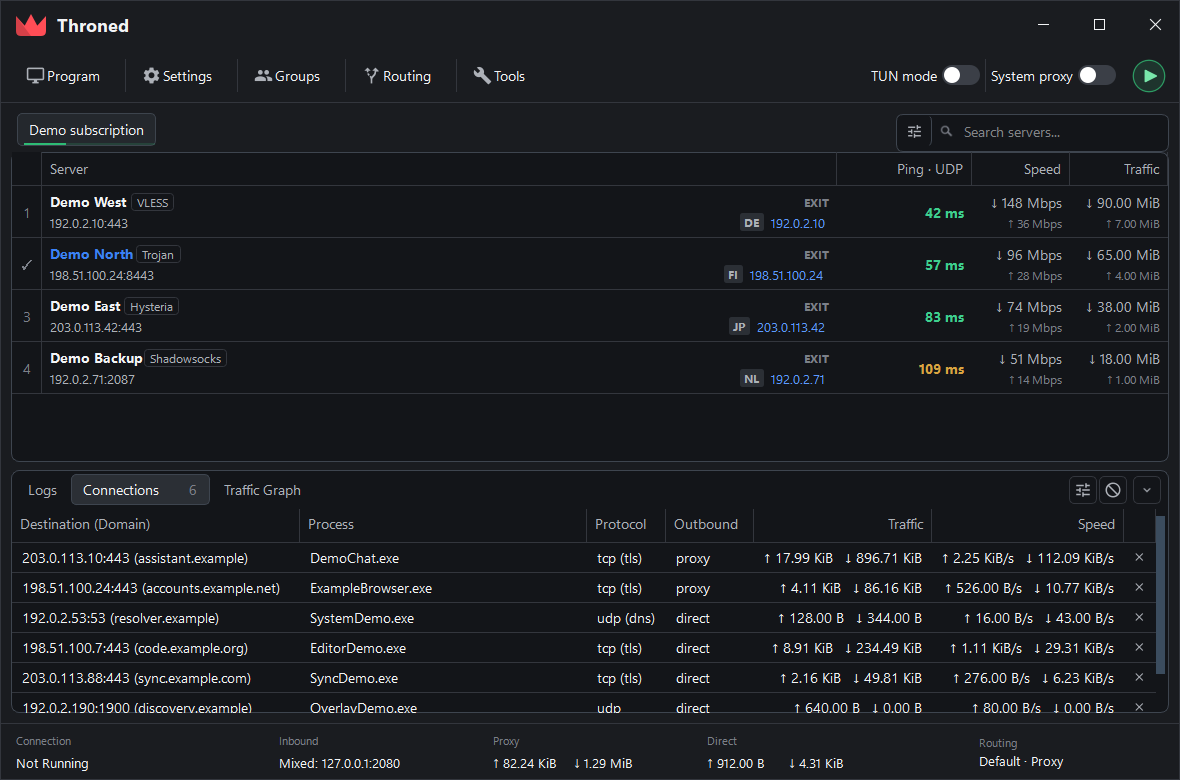
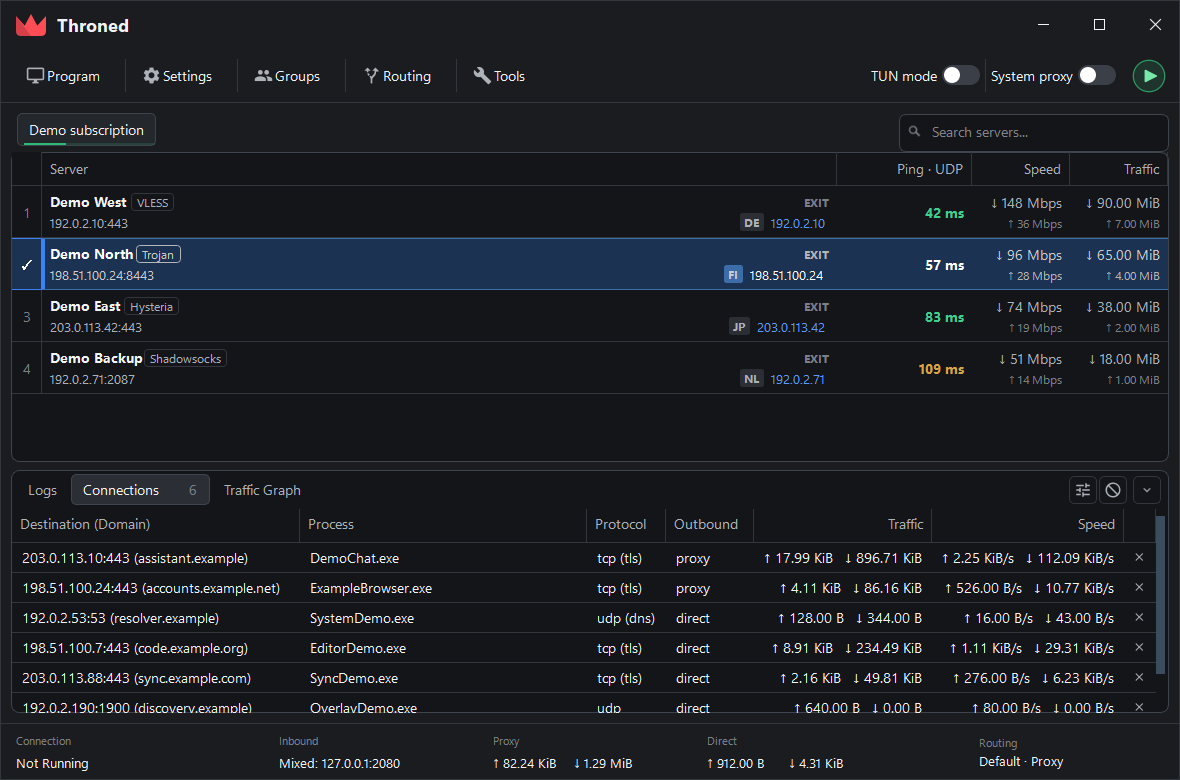
feat: drop the column filter and jump to the running profile from the status bar

Changed region(s): [[0.0, 0.3077, 1.0, 0.3692], [0.7627, 0.1538, 0.8847, 0.1846]]

diff --git a/src/ui/mainWindow/mainwindow_setup.cpp b/src/ui/mainWindow/mainwindow_setup.cpp
@@ -6,6 +6,7 @@
 
 #include <QActionGroup>
 #include <QMenu>
+#include <QShortcut>
 #include <QAction>
 #include <QSignalBlocker>
 #include <QStyle>
@@ -775,12 +776,6 @@ QPushButton#logToolButton {
     background: #222529; border: 1px solid #2F3136; border-radius: 5px; padding: 6px 10px;
 }
 QPushButton#logToolButton:hover { background: #292D33; border-color: #4A4F57; }
-QToolButton#tableFilterButton {
-    background: transparent; border: none; border-right: 1px solid #3E454F;
-    border-radius: 6px;
-}
-QToolButton#tableFilterButton:hover { background: #292D33; }
-QToolButton#tableFilterButton:checked { background: #182B38; }
 QLineEdit#serverSearch {
     background: transparent; border: none; border-radius: 6px;
     padding: 6px 9px 6px 4px;
@@ -1053,19 +1048,19 @@ QScrollBar::add-page:vertical, QScrollBar::sub-page:vertical { background: trans
         on_tabWidget_currentChanged(ui->tabWidget->tabBar()->currentIndex());
     });
     ui->label_running->installEventFilter(this);
+    ui->label_running->setCursor(Qt::PointingHandCursor);
+    // Left click now jumps to the row, so the test this label used to trigger
+    // moves here rather than disappearing.
+    ui->label_running->setContextMenuPolicy(Qt::CustomContextMenu);
+    connect(ui->label_running, &QWidget::customContextMenuRequested, this, [this](const QPoint &pos) {
+        if (running == nullptr) return;
+        QMenu menu(this);
+        menu.addAction(tr("Test this connection"), this, &MainWindow::url_test_current);
+        menu.exec(ui->label_running->mapToGlobal(pos));
+    });
     ui->label_inbound->installEventFilter(this);
     ui->splitter->installEventFilter(this);
     ui->tabWidget->installEventFilter(this);
-    auto btnFilter = new QToolButton(this);
-    btnFilter->setObjectName(QStringLiteral("tableFilterButton"));
-    btnFilter->setToolTip(QString("%1\n%2").arg(tr("Enable Filter"), QKeySequence(QKeySequence::Find).toString(QKeySequence::NativeText)));
-    btnFilter->setShortcut(QKeySequence::Find);
-    btnFilter->setCheckable(true);
-    btnFilter->setIconSize(QSize(17, 17));
-    btnFilter->setFixedSize(32, 32);
-    connect(btnFilter, &QToolButton::toggled, static_cast<ProfilesTableFilterHeader*>(ui->profilesTableView->horizontalHeader()), &ProfilesTableFilterHeader::setFiltersVisible);
-    connect(static_cast<ProfilesTableFilterHeader*>(ui->profilesTableView->horizontalHeader()), &ProfilesTableFilterHeader::closeRequested,
-            btnFilter, [btnFilter] { btnFilter->setChecked(false); });
     auto *tableTools = new QFrame(ui->tabWidget);
     tableTools->setObjectName(QStringLiteral("tableTools"));
     auto *tableToolsLayout = new QHBoxLayout(tableTools);
@@ -1073,13 +1068,18 @@ QScrollBar::add-page:vertical, QScrollBar::sub-page:vertical { background: trans
     tableToolsLayout->setContentsMargins(0, 0, 0, 7);
     tableToolsLayout->setSpacing(0);
     tableTools->setSizePolicy(QSizePolicy::Fixed, QSizePolicy::Fixed);
-    btnFilter->setFixedSize(35, 32);
-    tableToolsLayout->addWidget(btnFilter);
     auto *serverSearch = new QLineEdit(tableTools);
     serverSearch->setObjectName(QStringLiteral("serverSearch"));
     serverSearch->setPlaceholderText(tr("Search servers..."));
     serverSearch->setClearButtonEnabled(true);
-    serverSearch->setFixedSize(236, 32);
+    serverSearch->setFixedSize(268, 32);
+    // The per-column filter row is gone: this field already searches every one of
+    // them, so Find belongs here rather than on a second control beside it.
+    auto *findShortcut = new QShortcut(QKeySequence::Find, this);
+    connect(findShortcut, &QShortcut::activated, serverSearch, [serverSearch] {
+        serverSearch->setFocus(Qt::ShortcutFocusReason);
+        serverSearch->selectAll();
+    });
     auto *searchAction = serverSearch->addAction(QIcon(), QLineEdit::LeadingPosition);
     tableToolsLayout->addWidget(serverSearch);
     connect(serverSearch, &QLineEdit::textChanged, this, [this](const QString &text) {
@@ -1087,10 +1087,8 @@ QScrollBar::add-page:vertical, QScrollBar::sub-page:vertical { background: trans
         if (m_filterRefreshDebounce) m_filterRefreshDebounce->start();
     });
     ui->tabWidget->setCornerWidget(tableTools, Qt::TopRightCorner);
-    const auto retintTableTools = [btnFilter, searchAction] {
+    const auto retintTableTools = [searchAction] {
         const auto colors = themeManager->Colors();
-        btnFilter->setIcon(MaterialIcon::icon(MaterialIcon::Glyph::Tune,
-                                              btnFilter->isChecked() ? colors.accent : colors.textMuted, 17));
         // Qt centres a line-edit action on the frame, which puts the glyph above
         // the text's optical centre. Drawing it one pixel down inside a slightly
         // larger square lands it on the same line as the placeholder.
@@ -1102,7 +1100,6 @@ QScrollBar::add-page:vertical, QScrollBar::sub-page:vertical { background: trans
         searchAction->setIcon(QIcon(glyph));
     };
     retintTableTools();
-    connect(btnFilter, &QToolButton::toggled, this, retintTableTools);
     connect(themeManager, &ThemeManager::themeChanged, this, retintTableTools);
     //
     RegisterHotkey(false);

diff --git a/src/main.cpp b/src/main.cpp
@@ -846,14 +846,13 @@ briefly interrupts traffic.
     void VerifyProfileFiltersThenCapture(MainWindow *window, const QString &prefix) {
         auto *table = window->findChild<QTableView *>(QStringLiteral("profilesTableView"));
         auto *search = window->findChild<QLineEdit *>(QStringLiteral("serverSearch"));
-        auto *filterButton = window->findChild<QToolButton *>(QStringLiteral("tableFilterButton"));
-        if (table == nullptr || table->model() == nullptr || search == nullptr || filterButton == nullptr) {
+        if (table == nullptr || table->model() == nullptr || search == nullptr) {
             qApp->exit(2);
             return;
         }
         const int unfilteredRows = table->model()->rowCount();
         search->setText(QStringLiteral("Demo North"));
-        QTimer::singleShot(140, window, [window, prefix, table, search, filterButton, unfilteredRows] {
+        QTimer::singleShot(140, window, [window, prefix, table, search, unfilteredRows] {
             if (table->model()->rowCount() != 1) {
                 qWarning() << "Global profile search preview check failed" << table->model()->rowCount();
                 qApp->exit(2);
@@ -861,44 +860,12 @@ briefly interrupts traffic.
             }
             window->grab().save(prefix + QStringLiteral("-search-filtered.png"), "PNG");
             search->clear();
-            QTimer::singleShot(120, window, [window, prefix, table, filterButton, unfilteredRows] {
+            QTimer::singleShot(120, window, [window, prefix, table, unfilteredRows] {
                 if (table->model()->rowCount() != unfilteredRows) {
                     qApp->exit(2);
                     return;
                 }
-                filterButton->setChecked(true);
-                QTimer::singleShot(80, window, [window, prefix, table, filterButton, unfilteredRows] {
-                    QLineEdit *columnFilter = nullptr;
-                    for (auto *edit : table->horizontalHeader()->findChildren<QLineEdit *>())
-                        if (edit->isVisible()) {
-                            columnFilter = edit;
-                            break;
-                        }
-                    if (columnFilter == nullptr) {
-                        qApp->exit(2);
-                        return;
-                    }
-                    columnFilter->setText(QStringLiteral("Demo East"));
-                    QTimer::singleShot(140, window,
-                        [window, prefix, table, filterButton, columnFilter, unfilteredRows] {
-                        if (table->model()->rowCount() != 1) {
-                            qWarning() << "Column profile filter preview check failed"
-                                       << table->model()->rowCount();
-                            qApp->exit(2);
-                            return;
-                        }
-                        window->grab().save(prefix + QStringLiteral("-column-filtered.png"), "PNG");
-                        columnFilter->clear();
-                        filterButton->setChecked(false);
-                        QTimer::singleShot(120, window, [window, prefix, table, unfilteredRows] {
-                            if (table->model()->rowCount() != unfilteredRows) {
-                                qApp->exit(2);
-                                return;
-                            }
-                            BeginMainWindowCapture(window, prefix);
-                        });
-                    });
-                });
+                BeginMainWindowCapture(window, prefix);
             });
         });
     }

diff --git a/src/ui/mainWindow/mainwindow_view.cpp b/src/ui/mainWindow/mainwindow_view.cpp
@@ -6,6 +6,8 @@
 #include <QFrame>
 #include <QSignalBlocker>
 #include <QHeaderView>
+#include <QAbstractItemView>
+#include <QLineEdit>
 #include <QScrollBar>
 #include <QTimer>
 #include <QActionGroup>
@@ -25,10 +27,12 @@
 #include "include/ui/setting/Icon.hpp"
 #include "include/ui/setting/ThemeManager.hpp"
 #include "include/ui/widget/MaterialIcon.h"
+#include "include/ui/mainWindow/MainWindowInternal.h"
 #include "include/ui/stats/dialog_auto_selector.h"
 #include <QStyledItemDelegate>
 
 #include "include/ui/utils/ProfileRowDelegate.h"
+#include "include/ui/utils/ProfilesFilterProxyModel.h"
 #include "include/ui/utils/ProfilesTableFilterHeader.h"
 #include "include/ui/utils/ProfilesTableModel.h"
 #include "include/ui/widget/StartStopButton.hpp"
@@ -458,6 +462,67 @@ QString MainWindow::liveVpnConnectOkText() {
     bool connected = false;
     const auto text = liveVpnStateText(&connected);
     return connected ? text : QString();
+}
+
+void MainWindow::revealRunningProfile() {
+    const int id = Configs::dataManager->settingsRepo->started_id;
+    if (id < 0 || profilesTableModel == nullptr || profilesFilterModel == nullptr) return;
+    const auto profile = Configs::dataManager->profilesRepo->GetProfile(id);
+    if (profile == nullptr) return;
+
+    // It may be running out of a group the table is not showing.
+    if (profile->gid != Configs::dataManager->settingsRepo->current_group) {
+        const int tab = groupId2TabIndex(profile->gid);
+        if (tab < 0) return;
+        ui->tabWidget->setCurrentIndex(tab);
+    }
+    // ...and a search may be hiding it, in which case scrolling to nothing reads
+    // as the click having missed.
+    if (profilesFilterModel->toProxyRow(profilesTableModel->indexOfProfile(id)) < 0) {
+        if (auto *search = findChild<QLineEdit *>(QStringLiteral("serverSearch"))) search->clear();
+        globalFilterString.clear();
+        applyProfileFilters();
+    }
+
+    const int sourceRow = profilesTableModel->indexOfProfile(id);
+    if (sourceRow < 0) return;
+    const int proxyRow = profilesFilterModel->toProxyRow(sourceRow);
+    if (proxyRow < 0) return;
+
+    auto *view = ui->profilesTableView;
+    const QModelIndex target = profilesFilterModel->index(proxyRow, ProfilesTableModel::ColcServer);
+    view->setCurrentIndex(target);
+    view->selectRow(proxyRow);
+    view->scrollTo(target, QAbstractItemView::PositionAtCenter);
+    view->setFocus();
+    flashProfileRow(proxyRow);
+}
+
+void MainWindow::flashProfileRow(int proxyRow) {
+    if (profileRowDelegate == nullptr) return;
+    if (rowFlashAnimation != nullptr) {
+        rowFlashAnimation->stop();
+        rowFlashAnimation->deleteLater();
+        rowFlashAnimation = nullptr;
+    }
+    auto *animation = new QVariantAnimation(this);
+    rowFlashAnimation = animation;
+    animation->setStartValue(1.0);
+    animation->setEndValue(0.0);
+    animation->setDuration(900);
+    animation->setEasingCurve(QEasingCurve::OutCubic);
+    connect(animation, &QVariantAnimation::valueChanged, this, [this, proxyRow](const QVariant &value) {
+        Q_UNUSED(proxyRow); Q_UNUSED(value);
+        ui->profilesTableView->viewport()->update();
+    });
+    connect(animation, &QVariantAnimation::finished, this, [this, animation] {
+        if (rowFlashAnimation != animation) return;
+        rowFlashAnimation = nullptr;
+
+        ui->profilesTableView->viewport()->update();
+        animation->deleteLater();
+    });
+    animation->start();
 }
 
 void MainWindow::url_test_current() {

diff --git a/src/ui/utils/ProfileRowDelegate.cpp b/src/ui/utils/ProfileRowDelegate.cpp
@@ -143,6 +143,11 @@ int ProfileRowDelegate::metricColumnWidth(int column, const QFont &font) {
     }
 }
 
+void ProfileRowDelegate::setFlash(int row, qreal strength) {
+    m_flashRow = row;
+    m_flashStrength = qBound(0.0, strength, 1.0);
+}
+
 void ProfileRowDelegate::paint(QPainter *painter, const QStyleOptionViewItem &option,
                                const QModelIndex &index) const {
     QStyleOptionViewItem opt(option);
@@ -155,6 +160,18 @@ void ProfileRowDelegate::paint(QPainter *painter, const QStyleOptionViewItem &op
     const auto visual = index.data(ProfilesTableModel::RowVisualRole).value<ProfilesTableModel::RowVisual>();
     const auto colors = themeManager->Colors();
     const bool selected = opt.state & QStyle::State_Selected;
+
+    if (index.row() == m_flashRow && m_flashStrength > 0.0) {
+        QColor flash = colors.accent;
+        flash.setAlphaF(0.28 * m_flashStrength);
+        painter->fillRect(opt.rect, flash);
+    }
+    // The tick in the number gutter is easy to lose in a long list; the stripe
+    // gives the running row an edge that survives scrolling past it.
+    if (visual.running && index.column() == ProfilesTableModel::ColcServer) {
+        painter->fillRect(QRect(opt.rect.left(), opt.rect.top() + 1, 3, opt.rect.height() - 2),
+                          colors.accent);
+    }
 
     const QColor ink = selected ? opt.palette.color(QPalette::HighlightedText) : colors.text;
     const QColor muted = selected ? opt.palette.color(QPalette::HighlightedText).darker(125) : colors.textMuted;

diff --git a/include/ui/mainwindow.h b/include/ui/mainwindow.h
@@ -270,6 +270,7 @@ private:
     class QStyledItemDelegate *compactRowDelegate = nullptr;
     class QToolButton *statsPanelToggle = nullptr;
     int statsStripHeight = 39;
+    class QVariantAnimation *rowFlashAnimation = nullptr;
     class QToolButton *statsStripToggle = nullptr;
     class QFrame *statsStrip = nullptr;
     class QVariantAnimation *statsPanelAnimation = nullptr;
@@ -586,6 +587,10 @@ private:
     bool handleXrayGeoAssetError(const QString& error, const QString& contextName);
 
     void url_test_current();
+    // Jumps the table to the running profile and flashes it: a status bar that
+    // names a server people then cannot find is the complaint this answers.
+    void revealRunningProfile();
+    void flashProfileRow(int proxyRow);
 
     static std::shared_ptr<Configs::Profile> vpn_exit_endpoint(const std::shared_ptr<Configs::Profile> &ent);
 

diff --git a/include/ui/utils/ProfileRowDelegate.h b/include/ui/utils/ProfileRowDelegate.h
@@ -15,6 +15,14 @@ public:
     // uses, because ResizeToContents does not agree with them.
     static int metricColumnWidth(int column, const QFont &font);
 
+    // A short tint over one row, so a jump from the status bar lands somewhere
+    // the eye can follow. strength 0 clears it.
+    void setFlash(int row, qreal strength);
+
     void paint(QPainter *painter, const QStyleOptionViewItem &option, const QModelIndex &index) const override;
     QSize sizeHint(const QStyleOptionViewItem &option, const QModelIndex &index) const override;
+
+private:
+    int m_flashRow = -1;
+    qreal m_flashStrength = 0.0;
 };

diff --git a/src/ui/mainWindow/mainwindow_events.cpp b/src/ui/mainWindow/mainwindow_events.cpp
@@ -262,7 +262,7 @@ bool MainWindow::eventFilter(QObject *obj, QEvent *event) {
     if (type == QEvent::MouseButtonPress) {
         auto mouseEvent = dynamic_cast<QMouseEvent *>(event);
         if (obj == ui->label_running && mouseEvent->button() == Qt::LeftButton && running != nullptr) {
-            url_test_current();
+            revealRunningProfile();
             return true;
         } else if (obj == ui->label_inbound && mouseEvent->button() == Qt::LeftButton) {
             on_menu_basic_settings_triggered();
